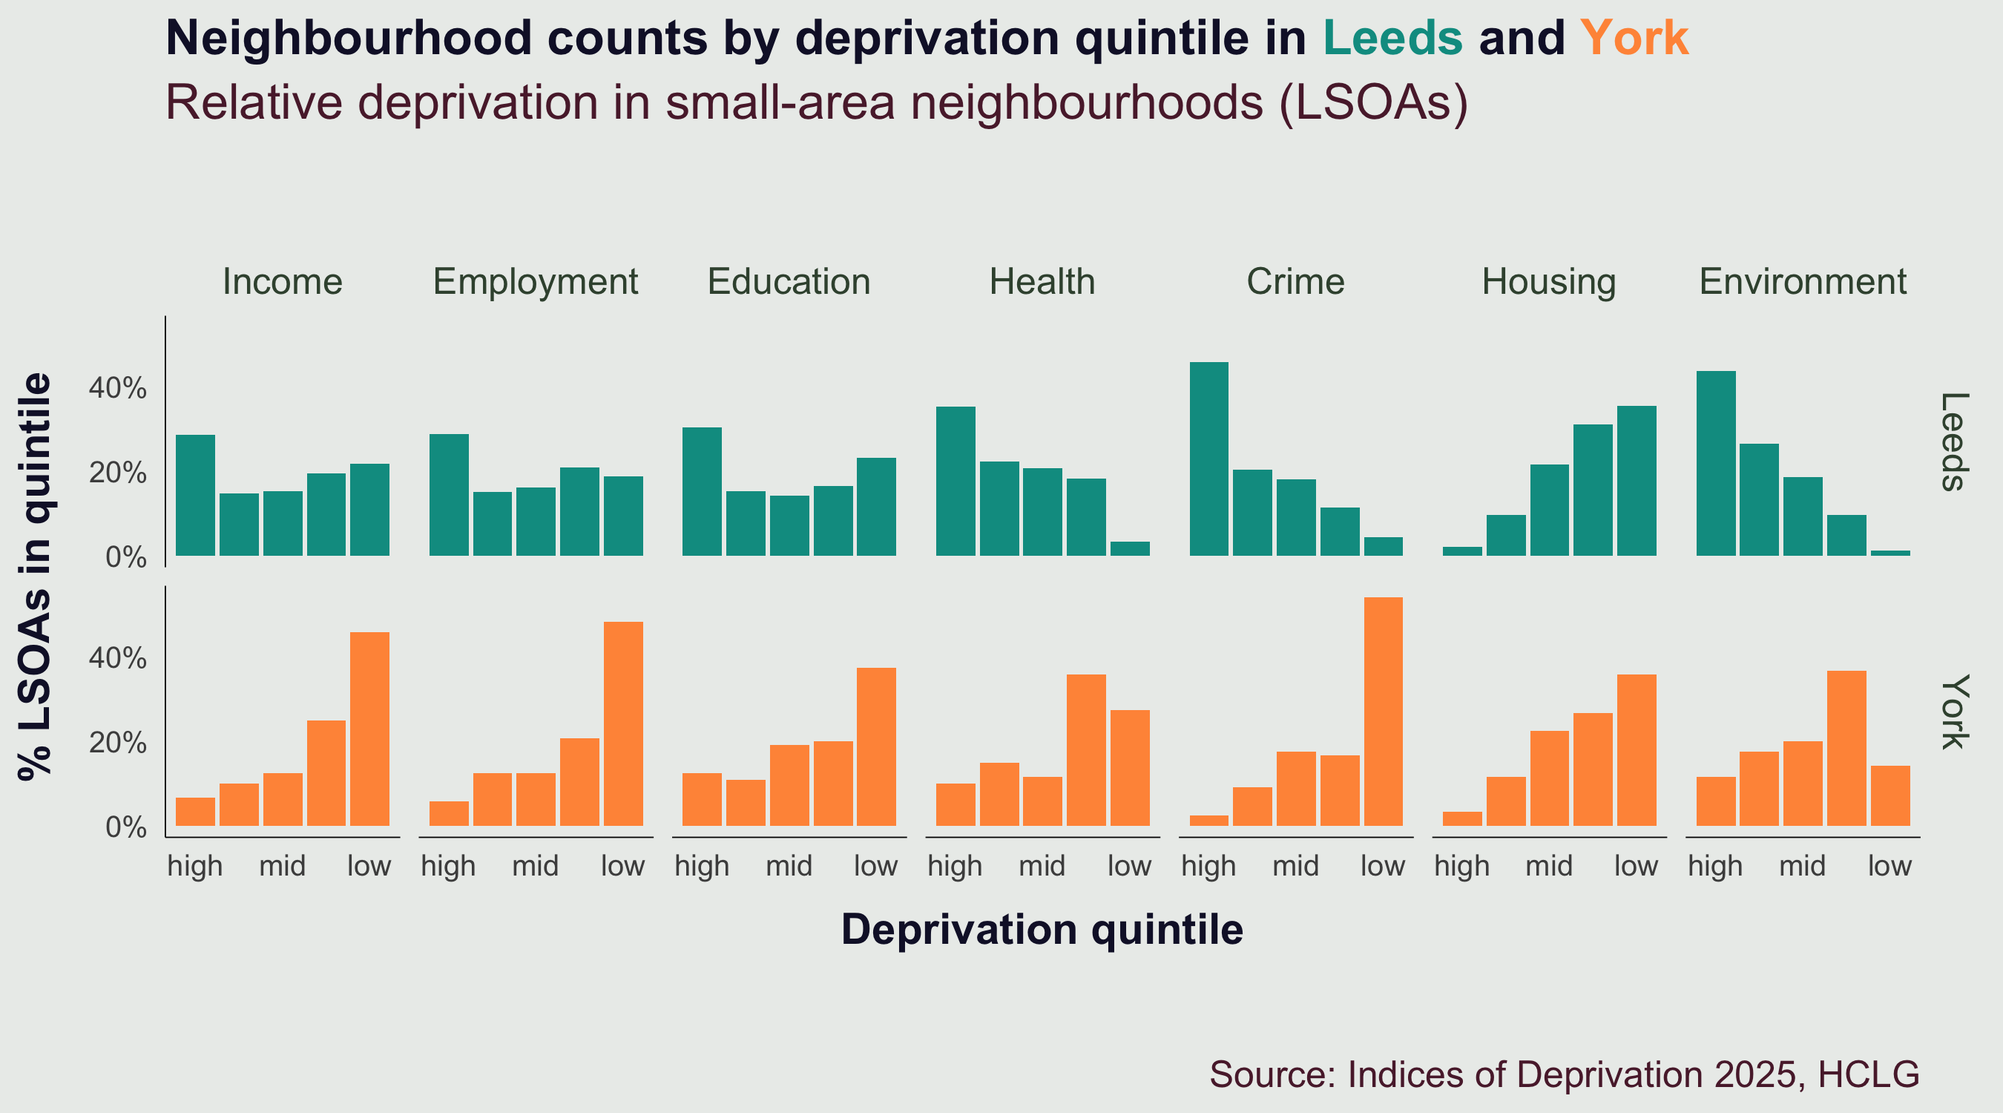
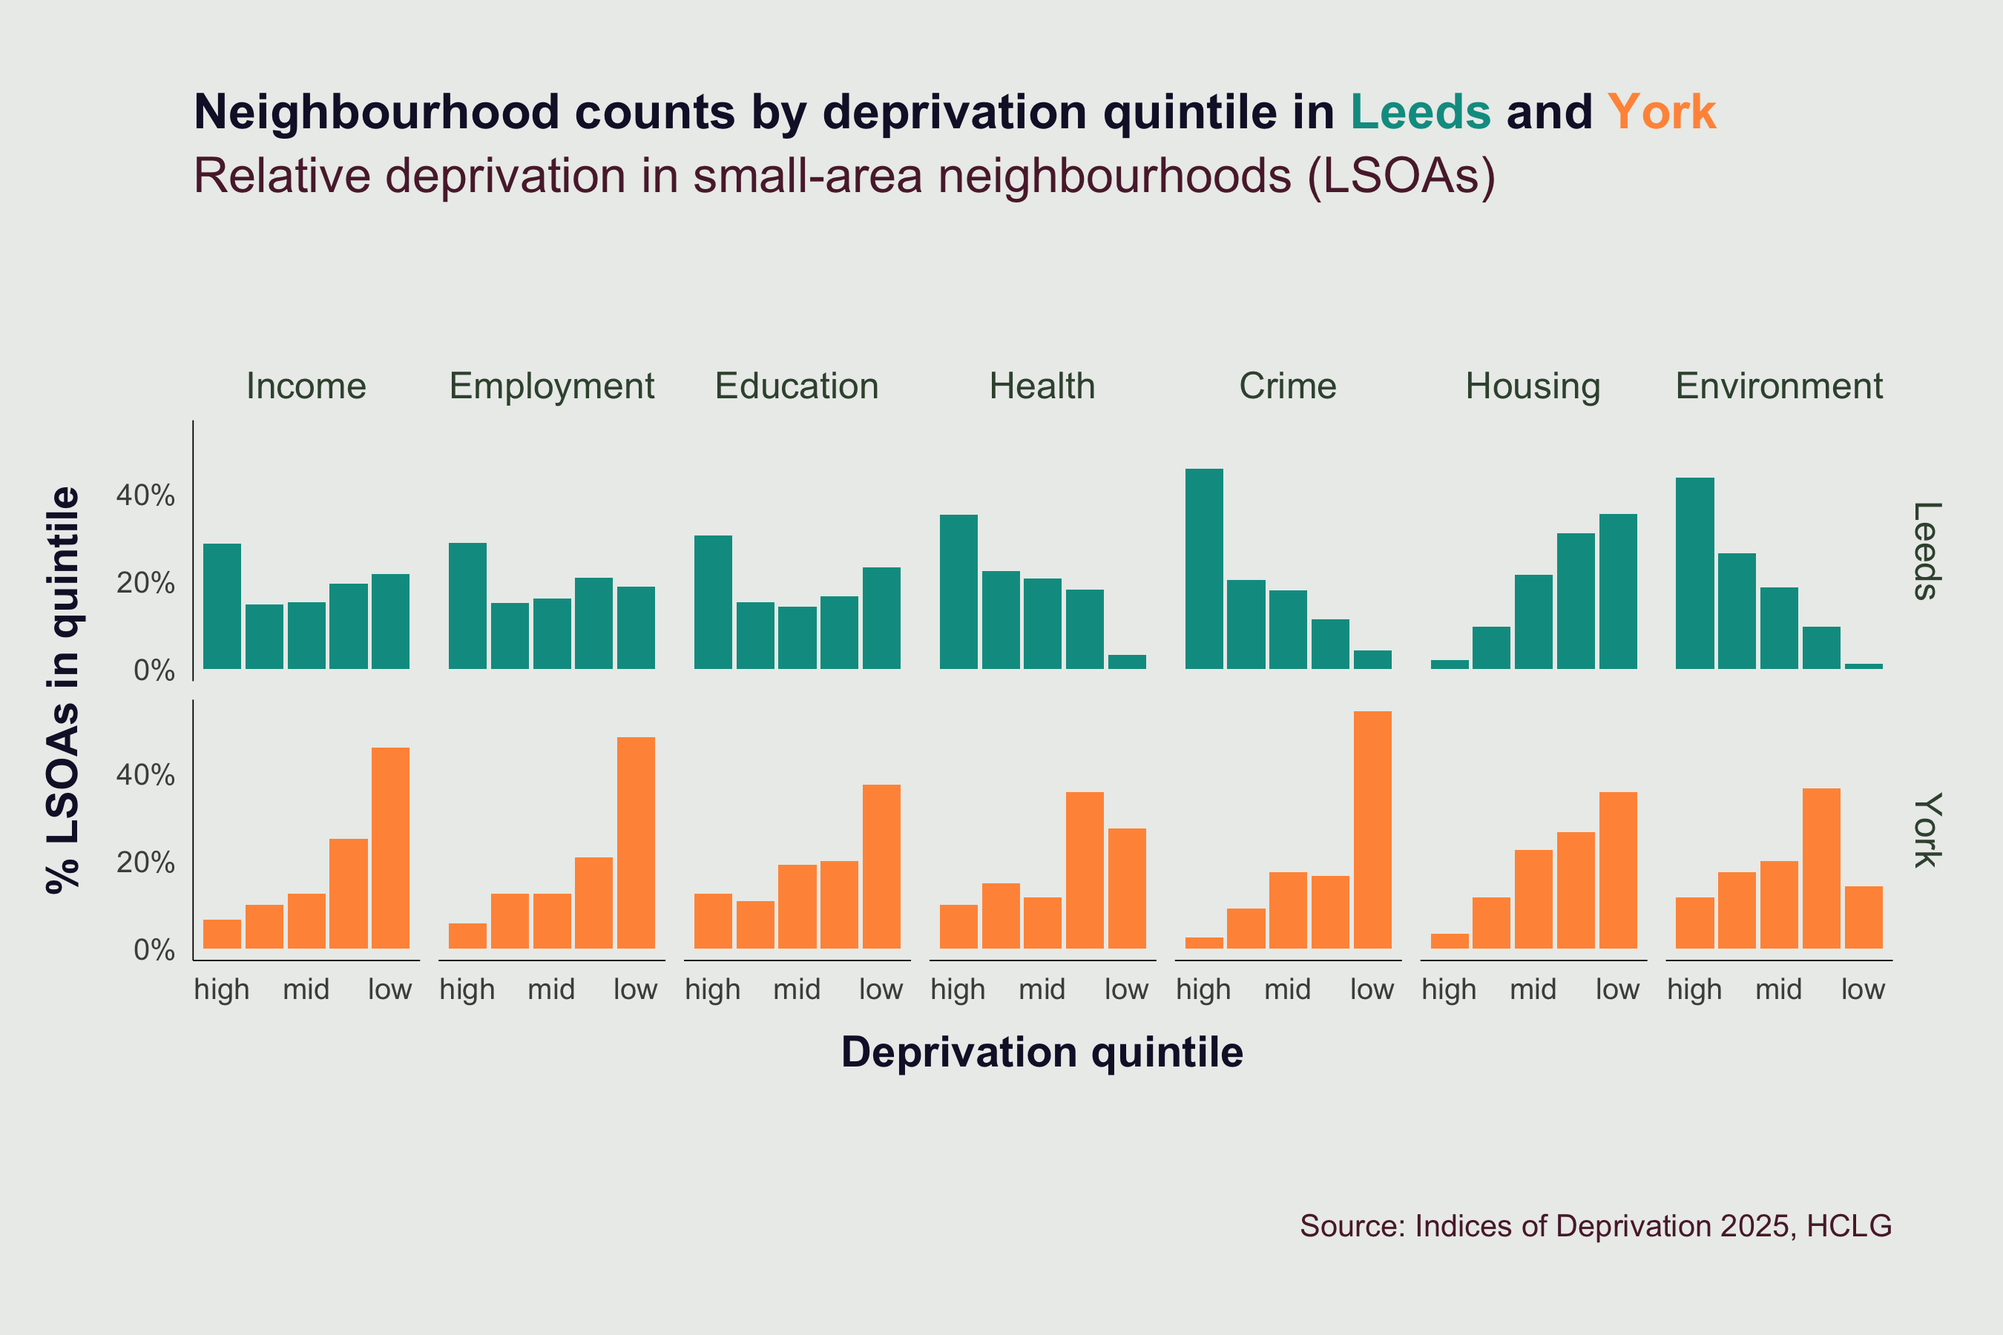
spacing edits (mainly)

diff --git a/index.html b/index.html
@@ -200,7 +200,7 @@ pre > code.sourceCode > span > a:first-child::before { text-decoration: underlin
 <span id="cb4-32"><a href="#cb4-32" aria-hidden="true" tabindex="-1"></a>    <span class="at">x=</span><span class="st">"Deprivation quintile"</span>, <span class="at">y=</span><span class="st">"LSOA count"</span>,</span>
 <span id="cb4-33"><a href="#cb4-33" aria-hidden="true" tabindex="-1"></a>    <span class="at">caption=</span><span class="st">"Source: Indices of Deprivation 2025, HCLG"</span></span>
 <span id="cb4-34"><a href="#cb4-34" aria-hidden="true" tabindex="-1"></a>    ) </span>
-<span id="cb4-35"><a href="#cb4-35" aria-hidden="true" tabindex="-1"></a><span class="fu">quartz</span>(<span class="at">file =</span> <span class="fu">here</span>(<span class="st">"figs"</span>, <span class="st">"bars.png"</span>), <span class="at">type =</span> <span class="st">"png"</span>, <span class="at">dpi =</span> <span class="dv">300</span>, <span class="at">width =</span> <span class="dv">9</span>, <span class="at">height =</span> <span class="dv">4</span>)</span>
+<span id="cb4-35"><a href="#cb4-35" aria-hidden="true" tabindex="-1"></a><span class="fu">quartz</span>(<span class="at">file =</span> <span class="fu">here</span>(<span class="st">"figs"</span>, <span class="st">"bars.png"</span>), <span class="at">type =</span> <span class="st">"png"</span>, <span class="at">dpi =</span> <span class="dv">300</span>, <span class="at">width =</span> <span class="dv">9</span>, <span class="at">height =</span> <span class="fl">5.5</span>)</span>
 <span id="cb4-36"><a href="#cb4-36" aria-hidden="true" tabindex="-1"></a><span class="fu">print</span>(p)</span>
 <span id="cb4-37"><a href="#cb4-37" aria-hidden="true" tabindex="-1"></a><span class="fu">dev.off</span>()</span></code><button title="Copy to Clipboard" class="code-copy-button"><i class="bi"></i></button></pre></div>
 </details>
@@ -247,7 +247,7 @@ Figure&nbsp;1
 <span id="cb5-22"><a href="#cb5-22" aria-hidden="true" tabindex="-1"></a>    <span class="at">caption=</span><span class="st">"Source: Indices of Deprivation 2025, HCLG"</span></span>
 <span id="cb5-23"><a href="#cb5-23" aria-hidden="true" tabindex="-1"></a>    ) </span>
 <span id="cb5-24"><a href="#cb5-24" aria-hidden="true" tabindex="-1"></a></span>
-<span id="cb5-25"><a href="#cb5-25" aria-hidden="true" tabindex="-1"></a><span class="fu">quartz</span>(<span class="at">file =</span> <span class="fu">here</span>(<span class="st">"figs"</span>, <span class="st">"bars_comp.png"</span>), <span class="at">type =</span> <span class="st">"png"</span>, <span class="at">dpi =</span> <span class="dv">300</span>, <span class="at">width =</span> <span class="dv">9</span>, <span class="at">height =</span> <span class="dv">5</span>)</span>
+<span id="cb5-25"><a href="#cb5-25" aria-hidden="true" tabindex="-1"></a><span class="fu">quartz</span>(<span class="at">file =</span> <span class="fu">here</span>(<span class="st">"figs"</span>, <span class="st">"bars_comp.png"</span>), <span class="at">type =</span> <span class="st">"png"</span>, <span class="at">dpi =</span> <span class="dv">300</span>, <span class="at">width =</span> <span class="dv">9</span>, <span class="at">height =</span> <span class="dv">6</span>)</span>
 <span id="cb5-26"><a href="#cb5-26" aria-hidden="true" tabindex="-1"></a><span class="fu">print</span>(p)</span>
 <span id="cb5-27"><a href="#cb5-27" aria-hidden="true" tabindex="-1"></a><span class="fu">dev.off</span>()</span></code><button title="Copy to Clipboard" class="code-copy-button"><i class="bi"></i></button></pre></div>
 </details>
@@ -296,7 +296,7 @@ Figure&nbsp;2
 <span id="cb6-24"><a href="#cb6-24" aria-hidden="true" tabindex="-1"></a>    <span class="at">caption=</span><span class="st">"Source: Indices of Deprivation 2025, HCLG"</span></span>
 <span id="cb6-25"><a href="#cb6-25" aria-hidden="true" tabindex="-1"></a>    ) </span>
 <span id="cb6-26"><a href="#cb6-26" aria-hidden="true" tabindex="-1"></a></span>
-<span id="cb6-27"><a href="#cb6-27" aria-hidden="true" tabindex="-1"></a><span class="fu">quartz</span>(<span class="at">file =</span> <span class="fu">here</span>(<span class="st">"figs"</span>, <span class="st">"bars_comp_super.png"</span>), <span class="at">type =</span> <span class="st">"png"</span>, <span class="at">dpi =</span> <span class="dv">300</span>, <span class="at">width =</span> <span class="dv">9</span>, <span class="at">height =</span> <span class="fl">4.5</span>)</span>
+<span id="cb6-27"><a href="#cb6-27" aria-hidden="true" tabindex="-1"></a><span class="fu">quartz</span>(<span class="at">file =</span> <span class="fu">here</span>(<span class="st">"figs"</span>, <span class="st">"bars_comp_super.png"</span>), <span class="at">type =</span> <span class="st">"png"</span>, <span class="at">dpi =</span> <span class="dv">300</span>, <span class="at">width =</span> <span class="dv">9</span>, <span class="at">height =</span> <span class="fl">5.5</span>)</span>
 <span id="cb6-28"><a href="#cb6-28" aria-hidden="true" tabindex="-1"></a><span class="fu">print</span>(p)</span>
 <span id="cb6-29"><a href="#cb6-29" aria-hidden="true" tabindex="-1"></a><span class="fu">dev.off</span>()</span></code><button title="Copy to Clipboard" class="code-copy-button"><i class="bi"></i></button></pre></div>
 </details>
@@ -367,7 +367,7 @@ Figure&nbsp;3
 <span id="cb7-43"><a href="#cb7-43" aria-hidden="true" tabindex="-1"></a>    <span class="at">caption=</span><span class="st">"Source: Indices of Deprivation 2025, HCLG"</span></span>
 <span id="cb7-44"><a href="#cb7-44" aria-hidden="true" tabindex="-1"></a>    ) </span>
 <span id="cb7-45"><a href="#cb7-45" aria-hidden="true" tabindex="-1"></a></span>
-<span id="cb7-46"><a href="#cb7-46" aria-hidden="true" tabindex="-1"></a><span class="fu">quartz</span>(<span class="at">file =</span> <span class="fu">here</span>(<span class="st">"figs"</span>, <span class="st">"heatmaps.png"</span>), <span class="at">type =</span> <span class="st">"png"</span>, <span class="at">dpi =</span> <span class="dv">300</span>, <span class="at">width =</span> <span class="dv">13</span>, <span class="at">height =</span> <span class="dv">5</span>)</span>
+<span id="cb7-46"><a href="#cb7-46" aria-hidden="true" tabindex="-1"></a><span class="fu">quartz</span>(<span class="at">file =</span> <span class="fu">here</span>(<span class="st">"figs"</span>, <span class="st">"heatmaps.png"</span>), <span class="at">type =</span> <span class="st">"png"</span>, <span class="at">dpi =</span> <span class="dv">300</span>, <span class="at">width =</span> <span class="dv">13</span>, <span class="at">height =</span> <span class="dv">6</span>)</span>
 <span id="cb7-47"><a href="#cb7-47" aria-hidden="true" tabindex="-1"></a><span class="fu">print</span>(p)</span>
 <span id="cb7-48"><a href="#cb7-48" aria-hidden="true" tabindex="-1"></a><span class="fu">dev.off</span>()</span></code><button title="Copy to Clipboard" class="code-copy-button"><i class="bi"></i></button></pre></div>
 </details>
@@ -425,7 +425,7 @@ Figure&nbsp;4
 <span id="cb8-33"><a href="#cb8-33" aria-hidden="true" tabindex="-1"></a>    <span class="at">caption=</span><span class="st">"Source: Indices of Deprivation 2025, HCLG"</span></span>
 <span id="cb8-34"><a href="#cb8-34" aria-hidden="true" tabindex="-1"></a>    ) </span>
 <span id="cb8-35"><a href="#cb8-35" aria-hidden="true" tabindex="-1"></a></span>
-<span id="cb8-36"><a href="#cb8-36" aria-hidden="true" tabindex="-1"></a><span class="fu">quartz</span>(<span class="at">file =</span> <span class="fu">here</span>(<span class="st">"figs"</span>, <span class="st">"scatters.png"</span>), <span class="at">type =</span> <span class="st">"png"</span>, <span class="at">dpi =</span> <span class="dv">300</span>, <span class="at">width =</span> <span class="fl">12.5</span>, <span class="at">height =</span> <span class="dv">5</span>)</span>
+<span id="cb8-36"><a href="#cb8-36" aria-hidden="true" tabindex="-1"></a><span class="fu">quartz</span>(<span class="at">file =</span> <span class="fu">here</span>(<span class="st">"figs"</span>, <span class="st">"scatters.png"</span>), <span class="at">type =</span> <span class="st">"png"</span>, <span class="at">dpi =</span> <span class="dv">300</span>, <span class="at">width =</span> <span class="fl">12.5</span>, <span class="at">height =</span> <span class="dv">6</span>)</span>
 <span id="cb8-37"><a href="#cb8-37" aria-hidden="true" tabindex="-1"></a><span class="fu">print</span>(p)</span>
 <span id="cb8-38"><a href="#cb8-38" aria-hidden="true" tabindex="-1"></a><span class="fu">dev.off</span>()</span></code><button title="Copy to Clipboard" class="code-copy-button"><i class="bi"></i></button></pre></div>
 </details>
@@ -518,26 +518,25 @@ Figure&nbsp;5
 <span id="cb9-65"><a href="#cb9-65" aria-hidden="true" tabindex="-1"></a>                 <span class="sc">~</span><span class="fu">map_domain</span>(dat <span class="sc">|&gt;</span> <span class="fu">filter</span>(domain<span class="sc">==</span>.x), primary[<span class="st">"teal"</span>], primary[<span class="st">"light"</span>])</span>
 <span id="cb9-66"><a href="#cb9-66" aria-hidden="true" tabindex="-1"></a>)</span>
 <span id="cb9-67"><a href="#cb9-67" aria-hidden="true" tabindex="-1"></a></span>
-<span id="cb9-68"><a href="#cb9-68" aria-hidden="true" tabindex="-1"></a>comp_plot <span class="ot">&lt;-</span> ((p_domains[[<span class="dv">1</span>]] <span class="sc">|</span> p_domains[[<span class="dv">2</span>]] <span class="sc">|</span> p_domains[[<span class="dv">3</span>]] ) <span class="sc">/</span></span>
-<span id="cb9-69"><a href="#cb9-69" aria-hidden="true" tabindex="-1"></a>              (p_domains[[<span class="dv">4</span>]] <span class="sc">|</span> p_domains[[<span class="dv">5</span>]] <span class="sc">|</span> p_domains[[<span class="dv">6</span>]]) <span class="sc">/</span> </span>
-<span id="cb9-70"><a href="#cb9-70" aria-hidden="true" tabindex="-1"></a>              (p_domains[[<span class="dv">7</span>]] <span class="sc">|</span> <span class="fu">plot_spacer</span>() <span class="sc">|</span> <span class="fu">plot_spacer</span>() ) ) <span class="sc">+</span></span>
-<span id="cb9-71"><a href="#cb9-71" aria-hidden="true" tabindex="-1"></a>  <span class="fu">plot_annotation</span>(</span>
-<span id="cb9-72"><a href="#cb9-72" aria-hidden="true" tabindex="-1"></a>    <span class="at">title=</span><span class="st">"LSOA quintile positions by deprivation domain"</span>,</span>
-<span id="cb9-73"><a href="#cb9-73" aria-hidden="true" tabindex="-1"></a>    <span class="at">subtitle=</span><span class="st">"Relative deprivation in small-area neighbourhoods (LSOAs)"</span>,</span>
-<span id="cb9-74"><a href="#cb9-74" aria-hidden="true" tabindex="-1"></a>    <span class="at">caption=</span><span class="st">"Source: Indices of Deprivation 2025, HCLG"</span></span>
-<span id="cb9-75"><a href="#cb9-75" aria-hidden="true" tabindex="-1"></a>  )</span>
-<span id="cb9-76"><a href="#cb9-76" aria-hidden="true" tabindex="-1"></a></span>
-<span id="cb9-77"><a href="#cb9-77" aria-hidden="true" tabindex="-1"></a><span class="fu">quartz</span>(<span class="at">file =</span> <span class="fu">here</span>(<span class="st">"figs"</span>, <span class="st">"choropleths.png"</span>), <span class="at">type =</span> <span class="st">"png"</span>, <span class="at">dpi =</span> <span class="dv">300</span>, <span class="at">width =</span> <span class="dv">7</span>, <span class="at">height =</span> <span class="dv">7</span>)</span>
-<span id="cb9-78"><a href="#cb9-78" aria-hidden="true" tabindex="-1"></a><span class="fu">print</span>(comp_plot)</span>
-<span id="cb9-79"><a href="#cb9-79" aria-hidden="true" tabindex="-1"></a><span class="fu">dev.off</span>()</span></code><button title="Copy to Clipboard" class="code-copy-button"><i class="bi"></i></button></pre></div>
+<span id="cb9-68"><a href="#cb9-68" aria-hidden="true" tabindex="-1"></a>comp_plot <span class="ot">&lt;-</span> ((p_domains[[<span class="dv">1</span>]] <span class="sc">|</span> p_domains[[<span class="dv">2</span>]] <span class="sc">|</span> p_domains[[<span class="dv">3</span>]]  <span class="sc">|</span> p_domains[[<span class="dv">4</span>]]) <span class="sc">/</span></span>
+<span id="cb9-69"><a href="#cb9-69" aria-hidden="true" tabindex="-1"></a>              (p_domains[[<span class="dv">5</span>]] <span class="sc">|</span> p_domains[[<span class="dv">6</span>]] <span class="sc">|</span> (p_domains[[<span class="dv">7</span>]]) <span class="sc">|</span> <span class="fu">plot_spacer</span>() ) ) <span class="sc">+</span></span>
+<span id="cb9-70"><a href="#cb9-70" aria-hidden="true" tabindex="-1"></a>  <span class="fu">plot_annotation</span>(</span>
+<span id="cb9-71"><a href="#cb9-71" aria-hidden="true" tabindex="-1"></a>    <span class="at">title=</span><span class="st">"LSOA quintile positions by deprivation domain"</span>,</span>
+<span id="cb9-72"><a href="#cb9-72" aria-hidden="true" tabindex="-1"></a>    <span class="at">subtitle=</span><span class="st">"Relative deprivation in small-area neighbourhoods (LSOAs)"</span>,</span>
+<span id="cb9-73"><a href="#cb9-73" aria-hidden="true" tabindex="-1"></a>    <span class="at">caption=</span><span class="st">"Source: Indices of Deprivation 2025, HCLG"</span></span>
+<span id="cb9-74"><a href="#cb9-74" aria-hidden="true" tabindex="-1"></a>  )</span>
+<span id="cb9-75"><a href="#cb9-75" aria-hidden="true" tabindex="-1"></a></span>
+<span id="cb9-76"><a href="#cb9-76" aria-hidden="true" tabindex="-1"></a><span class="fu">quartz</span>(<span class="at">file =</span> <span class="fu">here</span>(<span class="st">"figs"</span>, <span class="st">"choropleths.png"</span>), <span class="at">type =</span> <span class="st">"png"</span>, <span class="at">dpi =</span> <span class="dv">300</span>, <span class="at">width =</span> <span class="dv">9</span>, <span class="at">height =</span> <span class="dv">7</span>)</span>
+<span id="cb9-77"><a href="#cb9-77" aria-hidden="true" tabindex="-1"></a><span class="fu">print</span>(comp_plot)</span>
+<span id="cb9-78"><a href="#cb9-78" aria-hidden="true" tabindex="-1"></a><span class="fu">dev.off</span>()</span></code><button title="Copy to Clipboard" class="code-copy-button"><i class="bi"></i></button></pre></div>
 </details>
 </div>
 <div class="cell">
 <div class="cell-output-display">
-<div id="fig-choropleths" class="quarto-float quarto-figure quarto-figure-center anchored" width="80%">
+<div id="fig-choropleths" class="quarto-float quarto-figure quarto-figure-center anchored" width="100%">
 <figure class="quarto-float quarto-float-fig figure">
 <div aria-describedby="fig-choropleths-caption-0ceaefa1-69ba-4598-a22c-09a6ac19f8ca">
-<img src="figs/choropleths.png" id="fig-choropleths" class="img-fluid figure-img" style="width:80.0%">
+<img src="figs/choropleths.png" id="fig-choropleths" class="img-fluid figure-img" style="width:100.0%">
 </div>
 <figcaption class="quarto-float-caption-bottom quarto-float-caption quarto-float-fig quarto-uncaptioned" id="fig-choropleths-caption-0ceaefa1-69ba-4598-a22c-09a6ac19f8ca">
 Figure&nbsp;6
@@ -622,11 +621,11 @@ Figure&nbsp;6
 <span id="cb10-70"><a href="#cb10-70" aria-hidden="true" tabindex="-1"></a>  ) <span class="sc">+</span></span>
 <span id="cb10-71"><a href="#cb10-71" aria-hidden="true" tabindex="-1"></a>  <span class="fu">plot_annotation</span>(</span>
 <span id="cb10-72"><a href="#cb10-72" aria-hidden="true" tabindex="-1"></a>    <span class="at">title=</span>plot_title,</span>
-<span id="cb10-73"><a href="#cb10-73" aria-hidden="true" tabindex="-1"></a>    <span class="at">subtitle=</span><span class="st">"Each dot ~ 10 people randomly&lt;br&gt; allocated within LSOA"</span>,</span>
+<span id="cb10-73"><a href="#cb10-73" aria-hidden="true" tabindex="-1"></a>    <span class="at">subtitle=</span><span class="st">"Each dot ~ 10 people randomly allocated within LSOA"</span>,</span>
 <span id="cb10-74"><a href="#cb10-74" aria-hidden="true" tabindex="-1"></a>    <span class="at">caption=</span><span class="st">"Source: 2021 Census"</span></span>
 <span id="cb10-75"><a href="#cb10-75" aria-hidden="true" tabindex="-1"></a>  ) </span>
 <span id="cb10-76"><a href="#cb10-76" aria-hidden="true" tabindex="-1"></a></span>
-<span id="cb10-77"><a href="#cb10-77" aria-hidden="true" tabindex="-1"></a><span class="fu">quartz</span>(<span class="at">file =</span> <span class="fu">here</span>(<span class="st">"figs"</span>, <span class="st">"dot_density.png"</span>), <span class="at">type =</span> <span class="st">"png"</span>, <span class="at">dpi =</span> <span class="dv">300</span>, <span class="at">width =</span> <span class="dv">8</span>, <span class="at">height =</span> <span class="dv">6</span>)</span>
+<span id="cb10-77"><a href="#cb10-77" aria-hidden="true" tabindex="-1"></a><span class="fu">quartz</span>(<span class="at">file =</span> <span class="fu">here</span>(<span class="st">"figs"</span>, <span class="st">"dot_density.png"</span>), <span class="at">type =</span> <span class="st">"png"</span>, <span class="at">dpi =</span> <span class="dv">300</span>, <span class="at">width =</span> <span class="dv">8</span>, <span class="at">height =</span> <span class="dv">8</span>)</span>
 <span id="cb10-78"><a href="#cb10-78" aria-hidden="true" tabindex="-1"></a><span class="fu">print</span>(p)</span>
 <span id="cb10-79"><a href="#cb10-79" aria-hidden="true" tabindex="-1"></a><span class="fu">dev.off</span>() </span></code><button title="Copy to Clipboard" class="code-copy-button"><i class="bi"></i></button></pre></div>
 </details>
@@ -710,7 +709,7 @@ Figure&nbsp;7
 <span id="cb11-60"><a href="#cb11-60" aria-hidden="true" tabindex="-1"></a>    <span class="at">caption=</span><span class="st">"Source: OSM via osmdata"</span></span>
 <span id="cb11-61"><a href="#cb11-61" aria-hidden="true" tabindex="-1"></a>  )</span>
 <span id="cb11-62"><a href="#cb11-62" aria-hidden="true" tabindex="-1"></a></span>
-<span id="cb11-63"><a href="#cb11-63" aria-hidden="true" tabindex="-1"></a><span class="fu">quartz</span>(<span class="at">file =</span> <span class="fu">here</span>(<span class="st">"figs"</span>, <span class="st">"buildings.png"</span>), <span class="at">type =</span> <span class="st">"png"</span>, <span class="at">dpi =</span> <span class="dv">300</span>, <span class="at">width =</span> <span class="fl">5.3</span>, <span class="at">height =</span> <span class="dv">6</span>)</span>
+<span id="cb11-63"><a href="#cb11-63" aria-hidden="true" tabindex="-1"></a><span class="fu">quartz</span>(<span class="at">file =</span> <span class="fu">here</span>(<span class="st">"figs"</span>, <span class="st">"buildings.png"</span>), <span class="at">type =</span> <span class="st">"png"</span>, <span class="at">dpi =</span> <span class="dv">300</span>, <span class="at">width =</span> <span class="fl">6.5</span>, <span class="at">height =</span> <span class="dv">7</span>)</span>
 <span id="cb11-64"><a href="#cb11-64" aria-hidden="true" tabindex="-1"></a><span class="fu">print</span>(p)</span>
 <span id="cb11-65"><a href="#cb11-65" aria-hidden="true" tabindex="-1"></a><span class="fu">dev.off</span>() </span></code><button title="Copy to Clipboard" class="code-copy-button"><i class="bi"></i></button></pre></div>
 </details>
